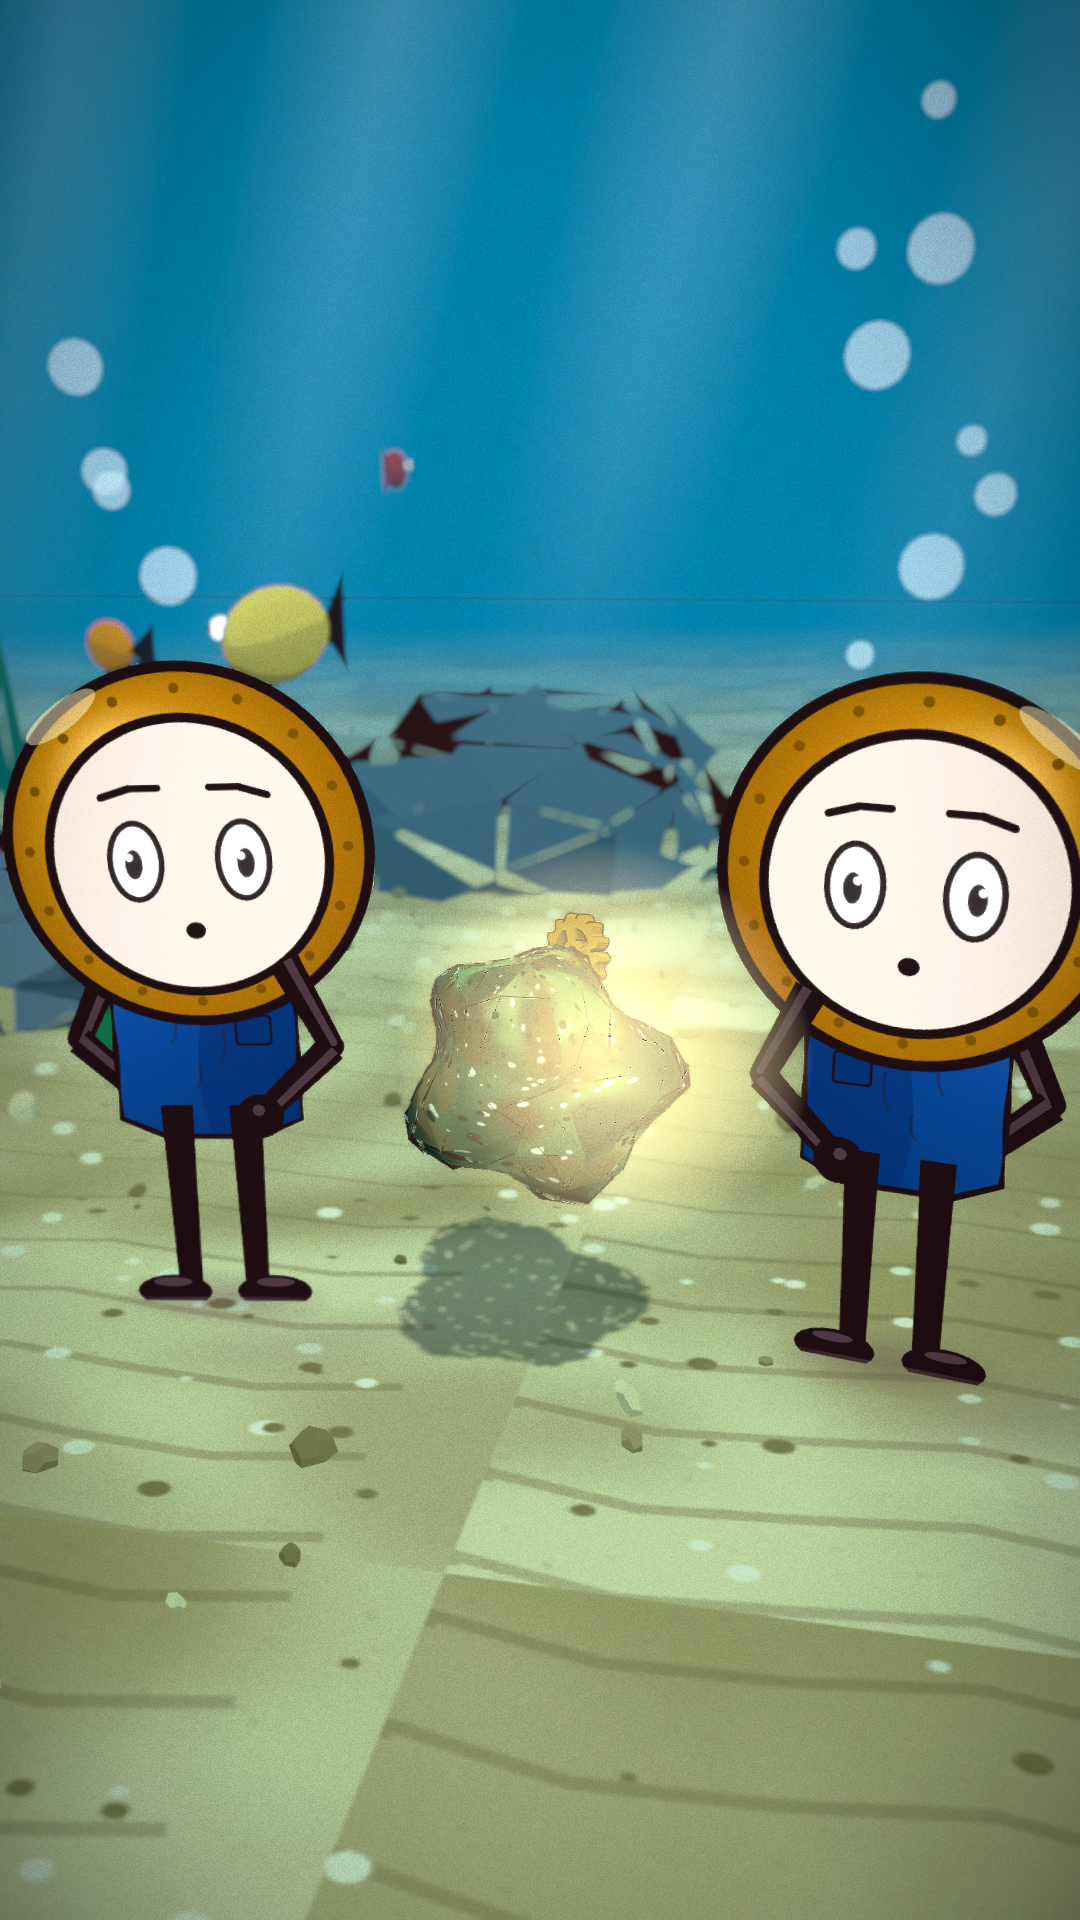
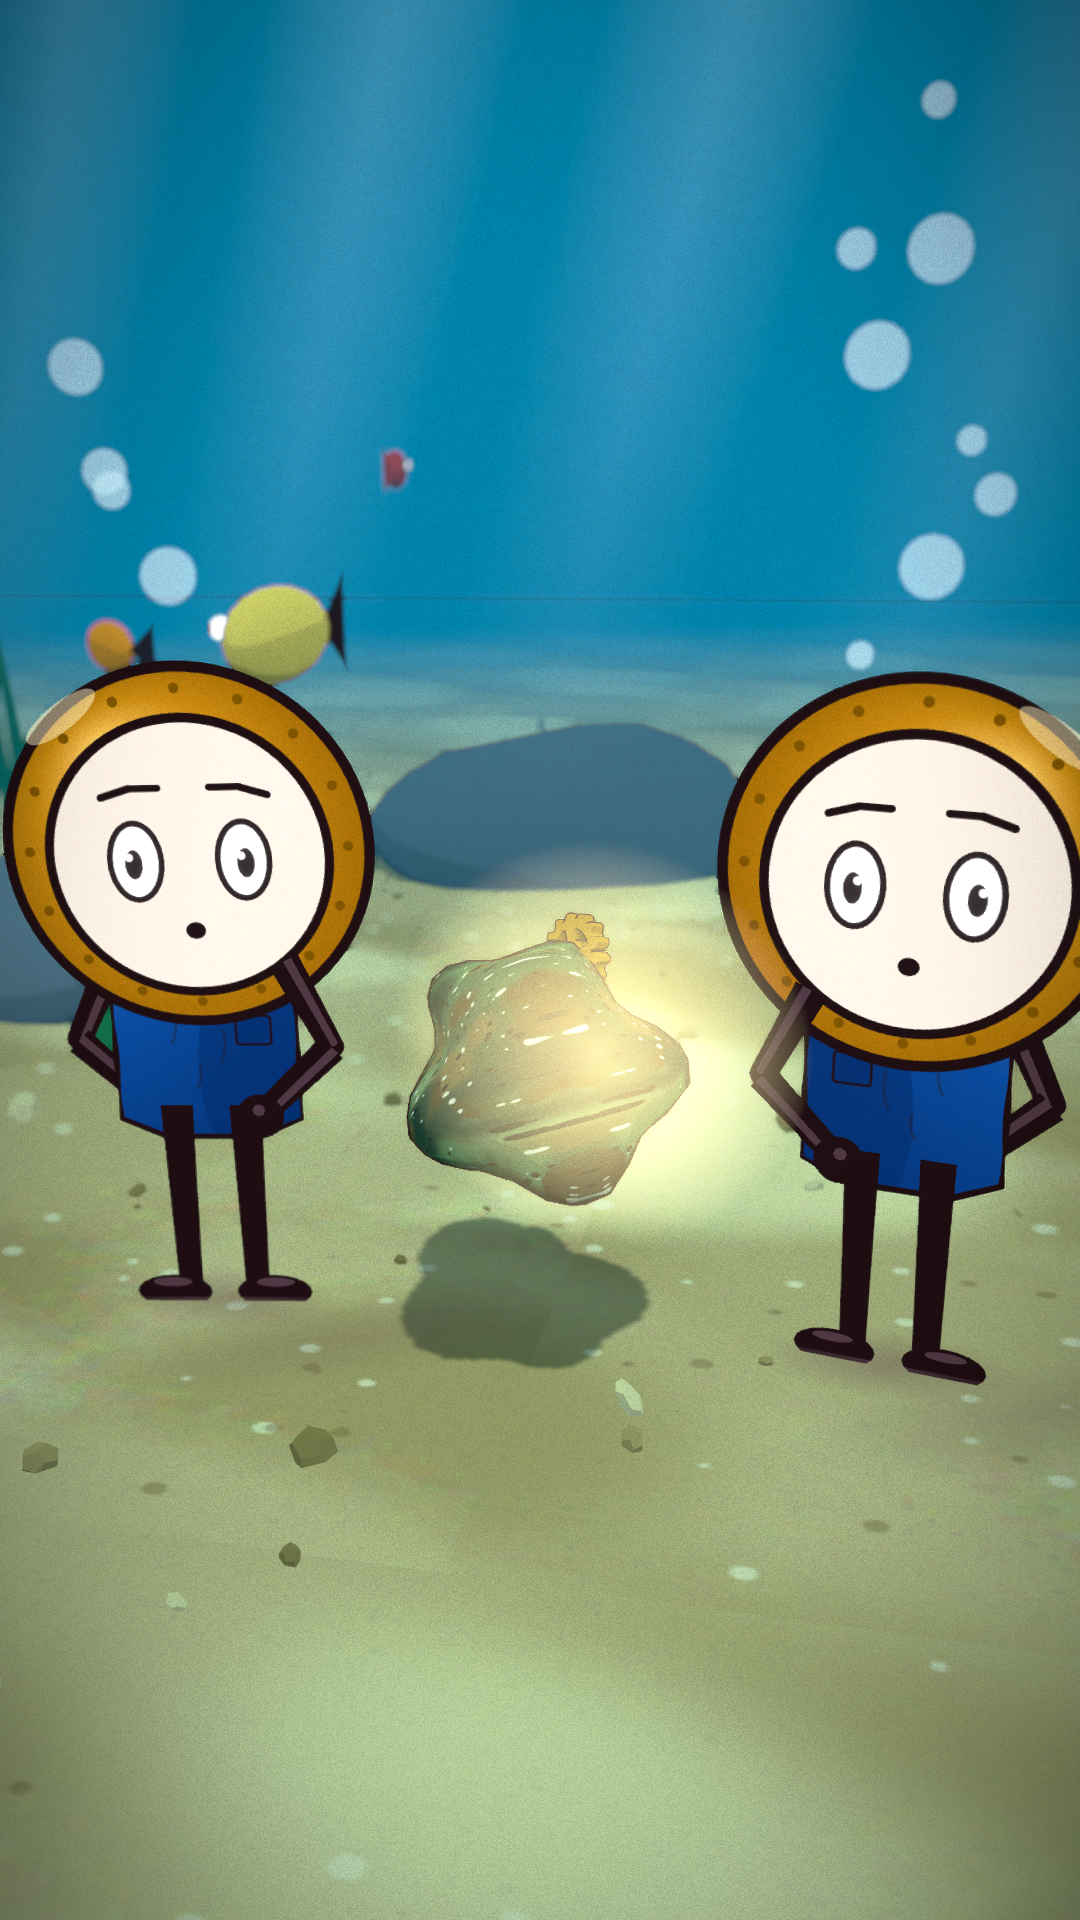
Remove line artifacts: seamless sand, welded smooth rocks and lump, no outline spikes; re-render thumbnail
Claude-Session: https://claude.ai/code/session_0196ak2x5ec7ft1JzpgBLxEh

diff --git a/video/src/anti/props.tsx b/video/src/anti/props.tsx
@@ -1,6 +1,15 @@
 import * as THREE from "three";
 import React, { useMemo } from "react";
 import { Ink, box, toon, rng, clamp, woodTexture } from "../hotel/kit";
+import { mergeVertices } from "three/examples/jsm/utils/BufferGeometryUtils.js";
+
+/** smooth, welded blob geometry (no flat facets, no outline spikes) */
+const smoothBlob = (detail: number, deform: (v: THREE.Vector3, i: number) => THREE.Vector3) => {
+  let g: THREE.BufferGeometry = new THREE.IcosahedronGeometry(1, detail); g.deleteAttribute("uv"); g.deleteAttribute("normal"); g = mergeVertices(g, 1e-4);
+  const pos = g.attributes.position; for (let i = 0; i < pos.count; i++) { const v = deform(new THREE.Vector3().fromBufferAttribute(pos, i), i); pos.setXYZ(i, v.x, v.y, v.z); }
+  const uv = new Float32Array(pos.count * 2); for (let i = 0; i < pos.count; i++) { const v = new THREE.Vector3().fromBufferAttribute(pos, i); uv[i * 2] = v.x * 0.5 + 0.5; uv[i * 2 + 1] = v.y * 0.5 + 0.5; }   // planar projection: no wrap seam
+  g.setAttribute("uv", new THREE.BufferAttribute(uv, 2)); g.computeVertexNormals(); return g;
+};
 import { INKD } from "../full/paint";
 import { Glow } from "../full/nature";
 
@@ -22,10 +31,9 @@ export const AT = () =>
     }, true),
     sand: cv(512, 512, (g, w, h) => {
       const r = rng(9); g.fillStyle = "#d8c79a"; g.fillRect(0, 0, w, h);
-      blur(g, 16, () => { for (let i = 0; i < 40; i++) { g.fillStyle = ["#c8b585", "#e6d6a8", "#b9a674"][i % 3]; g.beginPath(); g.ellipse(r() * w, r() * h, 60 + r() * 90, 20 + r() * 40, r() * 3, 0, 7); g.fill(); } });
-      g.strokeStyle = "rgba(120,100,60,.25)"; g.lineWidth = 5; for (let y = 24; y < h; y += 44) { g.beginPath(); g.moveTo(0, y); for (let x = 0; x <= w; x += 40) g.lineTo(x, y + Math.sin(x * 0.05 + y) * 6); g.stroke(); }
-      for (let i = 0; i < 160; i++) { g.fillStyle = r() < 0.5 ? "#f0e6c4" : "#9a8a5a"; g.beginPath(); g.arc(r() * w, r() * h, 1.5 + r() * 3, 0, 7); g.fill(); }
-      grain(g, w, h, 9, 1000, 0.04);
+      blur(g, 22, () => { for (let i = 0; i < 46; i++) { const x = r() * w, y = r() * h, rx = 50 + r() * 90, ry = 20 + r() * 50, c = ["#c8b585", "#e6d6a8", "#b9a674", "#d2bf90"][i % 4]; g.fillStyle = c; for (const ox of [-w, 0, w]) for (const oy of [-h, 0, h]) { g.beginPath(); g.ellipse(x + ox, y + oy, rx, ry, 0.3, 0, 7); g.fill(); } } });
+      for (let i = 0; i < 90; i++) { g.fillStyle = r() < 0.5 ? "rgba(240,230,196,.7)" : "rgba(130,110,70,.35)"; const x = r() * w, y = r() * h, rr = 1.2 + r() * 2.4; for (const ox of [-w, 0, w]) { g.beginPath(); g.arc(x + ox, y, rr, 0, 7); g.fill(); } }
+      grain(g, w, h, 9, 700, 0.03);
     }, true),
     sea: cv(512, 512, (g, w, h) => {
       const gr = g.createLinearGradient(0, 0, 0, h); gr.addColorStop(0, "#4fa8d8"); gr.addColorStop(1, "#2a7fb8"); g.fillStyle = gr; g.fillRect(0, 0, w, h);
@@ -87,11 +95,11 @@ export const Gear: React.FC<{ p?: [number, number, number]; r?: number; teeth?: 
 
 export const Lump: React.FC<{ p?: [number, number, number]; s?: number; rot?: [number, number, number]; gear?: boolean; t?: number }> = ({ p = [0, 0, 0], s = 1, rot = [0, 0, 0], gear = true, t = 0 }) => {
   const x = AT();
-  const geo = useMemo(() => { const g = new THREE.IcosahedronGeometry(1, 3); const r = rng(8); const pos = g.attributes.position; for (let i = 0; i < pos.count; i++) { const v = new THREE.Vector3().fromBufferAttribute(pos, i); const k = 0.82 + 0.28 * Math.sin(v.x * 3.1 + v.y * 2.3) * Math.cos(v.z * 2.7) + (r() - 0.5) * 0.04; v.multiplyScalar(k); pos.setXYZ(i, v.x * 1.25, v.y * 0.8, v.z); } g.computeVertexNormals(); return g; }, []);
-  const mat = useMemo(() => { const t2 = x.crust.clone(); t2.needsUpdate = true; t2.repeat.set(2, 2); return toon(t2); }, [x]);
+  const geo = useMemo(() => { const r = rng(8); return smoothBlob(4, (v) => { const k = 0.84 + 0.26 * Math.sin(v.x * 3.1 + v.y * 2.3) * Math.cos(v.z * 2.7) + (r() - 0.5) * 0.02; return new THREE.Vector3(v.x * 1.25 * k, v.y * 0.8 * k, v.z * k); }); }, []);
+  const mat = useMemo(() => { const t2 = x.crust.clone(); t2.needsUpdate = true; t2.repeat.set(1.6, 1.6); return toon(t2); }, [x]);
   return (
     <group position={p} rotation={rot} scale={s}>
-      <Ink geometry={geo} material={mat} px={2.4} />
+      <Ink geometry={geo} material={mat} px={2.0} />
       {gear ? <Gear p={[0.62, 0.26, 0.5]} r={0.3} teeth={14} spin={t * 0.5} rot={[0.5, 0.2, 0.3]} depth={0.1} /> : null}
     </group>
   );
@@ -169,9 +177,9 @@ export const Seaweed: React.FC<{ p: [number, number, number]; t: number; h?: num
 };
 
 export const Rock: React.FC<{ p: [number, number, number]; s?: number; color?: string; seed?: number }> = ({ p, s = 1, color = "#8a8a8a", seed = 1 }) => {
-  const geo = useMemo(() => { const g = new THREE.IcosahedronGeometry(1, 1); const r = rng(seed * 5); const pos = g.attributes.position; for (let i = 0; i < pos.count; i++) { const v = new THREE.Vector3().fromBufferAttribute(pos, i); v.multiplyScalar(0.8 + r() * 0.4); pos.setXYZ(i, v.x, v.y * 0.7, v.z); } g.computeVertexNormals(); return g; }, [seed]);
+  const geo = useMemo(() => { const r = rng(seed * 5); return smoothBlob(3, (v) => { const k = 0.86 + 0.18 * Math.sin(v.x * 2.6 + seed) * Math.cos(v.z * 2.2 + v.y) + (r() - 0.5) * 0.015; return new THREE.Vector3(v.x * k * 1.1, v.y * k * 0.62, v.z * k); }); }, [seed]);
   const m = useMemo(() => toon(color), [color]);
-  return <Ink geometry={geo} material={m} position={p} scale={s} px={2.2} />;
+  return <Ink geometry={geo} material={m} position={p} scale={s} px={2.0} />;
 };
 
 export const Sea: React.FC<{ t: number; y?: number; size?: [number, number]; z?: number }> = ({ t, y = 0, size = [260, 200], z = -60 }) => {
